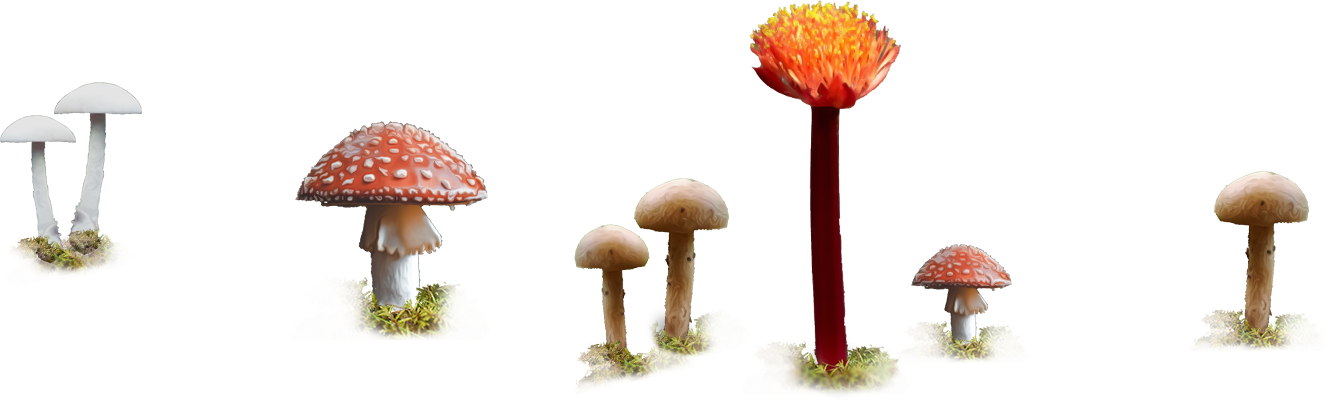
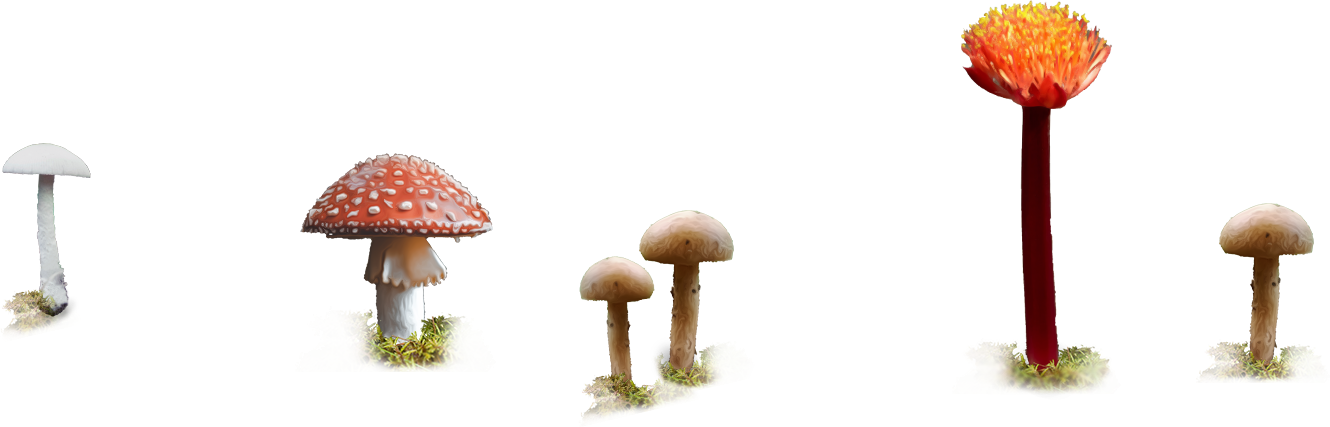
Update to graphql image

diff --git a/src/components/App/App.js b/src/components/App/App.js
@@ -1,6 +1,69 @@
 import React, { useEffect, useState } from "react"
+import { useStaticQuery, graphql } from "gatsby"
+import Img from "gatsby-image/withIEPolyfill"
 
 function App() {
+  const data = useStaticQuery(graphql`
+    query {
+      layer1: file(relativePath: { eq: "layer1.png" }) {
+        childImageSharp {
+          fluid(quality: 70, maxWidth: 1000) {
+            ...GatsbyImageSharpFluid_noBase64
+          }
+        }
+      }
+      layer2: file(relativePath: { eq: "layer2.png" }) {
+        childImageSharp {
+          fluid(quality: 70, maxWidth: 1000) {
+            ...GatsbyImageSharpFluid_noBase64
+          }
+        }
+      }
+      layer3: file(relativePath: { eq: "layer3.png" }) {
+        childImageSharp {
+          fluid(quality: 70, maxWidth: 1000) {
+            ...GatsbyImageSharpFluid_noBase64
+          }
+        }
+      }
+      layer4: file(relativePath: { eq: "layer4.png" }) {
+        childImageSharp {
+          fluid(quality: 70, maxWidth: 1000) {
+            ...GatsbyImageSharpFluid_noBase64
+          }
+        }
+      }
+      layer5: file(relativePath: { eq: "layer5.png" }) {
+        childImageSharp {
+          fluid(quality: 70, maxWidth: 1000) {
+            ...GatsbyImageSharpFluid_noBase64
+          }
+        }
+      }
+      layer6: file(relativePath: { eq: "layer6.png" }) {
+        childImageSharp {
+          fluid(quality: 70, maxWidth: 1000) {
+            ...GatsbyImageSharpFluid_noBase64
+          }
+        }
+      }
+      layer7: file(relativePath: { eq: "layer7.png" }) {
+        childImageSharp {
+          fluid(quality: 70, maxWidth: 1000) {
+            ...GatsbyImageSharpFluid_noBase64
+          }
+        }
+      }
+    }
+  `)
+  const layer1 = data.layer1.childImageSharp.fluid
+  const layer2 = data.layer2.childImageSharp.fluid
+  const layer3 = data.layer3.childImageSharp.fluid
+  const layer4 = data.layer4.childImageSharp.fluid
+  const layer5 = data.layer5.childImageSharp.fluid
+  const layer6 = data.layer6.childImageSharp.fluid
+  const layer7 = data.layer7.childImageSharp.fluid
+
   const centerX = window.innerWidth / 2
   const centerY = window.innerHeight / 2
   const [radiusX, setRadiusX] = useState(centerX)
@@ -54,8 +117,8 @@ function App() {
               button.style.display = "none"
               container.style.display = "block"
               window.addEventListener("deviceorientation", e => {
-                const gamma = Math.floor(e.gamma)
-                const beta = Math.floor(e.beta)
+                const gamma = e.gamma
+                const beta = e.beta
 
                 if (beta > -80 && beta < 80) {
                   layer1.style.transform = `translate3d(${-gamma * 1.4}px,${
@@ -98,7 +161,7 @@ function App() {
           layer2.style.transform = `translate3d(${-x * 0.18}px,${
             -y * 0.06
           }px,0px`
-          layer3.style.transform = `translate3d(${-x * 0.1}px,${
+          layer3.style.transform = `translate3d(${-x * 0.12}px,${
             -y * 0.05
           }px,0px`
           layer4.style.transform = `translate3d(${-x * 0.08}px,${
@@ -110,9 +173,9 @@ function App() {
           layer6.style.transform = `translate3d(${-x * 0.04}px,${
             -y * 0.02
           }px,0px`
-          layer7.style.transform = `translate3d(${-x * 0.03}px,${
-            -y * 0.01
-          }px,0px`
+          // layer7.style.transform = `translate3d(${-x * 0.03}px,${
+          //   -y * 0.01
+          // }px,0px`
         })
       }
     }
@@ -122,13 +185,27 @@ function App() {
     <>
       <button className="button">CLICK TO SHOW</button>
       <div className="parallax-container">
-        <div className="parallax-layer layer7"></div>
-        <div className="parallax-layer layer6"></div>
-        <div className="parallax-layer layer5"></div>
-        <div className="parallax-layer layer4"></div>
-        <div className="parallax-layer layer3"></div>
-        <div className="parallax-layer layer2"></div>
-        <div className="parallax-layer layer1"></div>
+        <div className="parallax-layer layer7">
+          <Img fluid={layer7} alt="" className="" />
+        </div>
+        <div className="parallax-layer layer6">
+          <Img fluid={layer6} alt="" />
+        </div>
+        <div className="parallax-layer layer5">
+          <Img fluid={layer5} alt="" />
+        </div>
+        <div className="parallax-layer layer4">
+          <Img fluid={layer4} alt="" />
+        </div>
+        <div className="parallax-layer layer3">
+          <Img fluid={layer3} alt="" />
+        </div>
+        <div className="parallax-layer layer2">
+          <Img fluid={layer2} alt="" />
+        </div>
+        <div className="parallax-layer layer1">
+          <Img fluid={layer1} alt="" />
+        </div>
       </div>
     </>
   )

diff --git a/src/assets/styles/App.scss b/src/assets/styles/App.scss
@@ -82,9 +82,6 @@ html {
     position: absolute;
   }
   .layer1 {
-    background-image: url(../images/layer1.png);
-    background-size: cover;
-    background-position: center;
     width: 150%;
     height: 46%;
     margin: auto;
@@ -93,41 +90,53 @@ html {
     @include medium {
       width: 140%;
       height: 50%;
-      left: -10%;
-      bottom: -23%;
+      left: -20%;
+      bottom: -20%;
+    }
+    // & > div {
+    //   background-image: url(../images/layer1.png);
+    //   background-size: cover;
+    //   background-position: center;
+    // }
+    .gatsby-image-wrapper {
+      height: 100%;
     }
   }
   .layer2 {
-    background-image: url(../images/layer2.png);
-    background-size: contain;
-    background-position: bottom;
     width: 80px;
     height: 100px;
-    left: 15%;
+    left: 12%;
     bottom: 4%;
     @include medium {
       width: 120px;
       height: 150px;
-      bottom: 10%;
+      bottom: 6%;
     }
+    // & > div {
+    //   background-image: url(../images/layer2.png);
+    //   background-size: contain;
+    //   background-position: bottom;
+    // }
   }
   .layer3 {
-    background-image: url(../images/layer3.png);
-    background-size: contain;
-    background-position: center;
-    width: 8%;
-    height: 15%;
-    right: 10%;
-    bottom: 2%;
+    // background-image: url(../images/layer3.png);
+    // background-size: contain;
+    // background-position: center;
+    bottom: 12%;
+    width: 20%;
+    height: 8%;
+    right: 15%;
     @include medium {
-      bottom: 10%;
+      width: 11%;
+      height: 15%;
+      right: 30%;
     }
   }
   .layer4 {
     //logo
-    background-image: url(../images/layer4.png);
-    background-size: contain;
-    background-position: center;
+    // background-image: url(../images/layer4.png);
+    // background-size: contain;
+    // background-position: center;
     width: 70%;
     height: 40%;
     margin: auto;
@@ -139,25 +148,26 @@ html {
     }
   }
   .layer5 {
-    background-image: url(../images/layer5.png);
-    background-position: center;
-    background-size: contain;
-    width: 170%;
+    // background-image: url(../images/layer5.png);
+    // background-position: center;
+    // background-size: contain;
+    width: 160%;
     height: 250px;
     margin: auto;
     left: -35%;
     right: 0;
     bottom: 12%;
     @include medium {
-      left: -22%;
-      width: 150%;
+      left: 0%;
+      width: 100%;
       height: 400px;
+      bottom: 15%;
     }
   }
   .layer6 {
-    background-image: url(../images/layer6.png);
-    background-size: cover;
-    background-position: top;
+    // background-image: url(../images/layer6.png);
+    // background-size: cover;
+    // background-position: top;
     width: 130%;
     height: 36%;
     margin: auto;
@@ -168,14 +178,20 @@ html {
       height: 45%;
       bottom: -3%;
     }
+    .gatsby-image-wrapper {
+      height: 100%;
+    }
   }
   .layer7 {
-    background-image: url(../images/layer7.png);
-    background-size: cover;
+    // background-image: url(../images/layer7.png);
+    // background-size: cover;
     width: 120%;
     height: 110%;
     height: calc(var(--vh, 1vh) * 110);
     left: -10%;
     top: -10%;
+    .gatsby-image-wrapper {
+      height: 100%;
+    }
   }
 }

diff --git a/README.md b/README.md
@@ -1,99 +1,1 @@
-<!-- AUTO-GENERATED-CONTENT:START (STARTER) -->
-<p align="center">
-  <a href="https://www.gatsbyjs.com">
-    <img alt="Gatsby" src="https://www.gatsbyjs.com/Gatsby-Monogram.svg" width="60" />
-  </a>
-</p>
-<h1 align="center">
-  Gatsby's default starter
-</h1>
-
-Kick off your project with this default boilerplate. This starter ships with the main Gatsby configuration files you might need to get up and running blazing fast with the blazing fast app generator for React.
-
-_Have another more specific idea? You may want to check out our vibrant collection of [official and community-created starters](https://www.gatsbyjs.com/docs/gatsby-starters/)._
-
-## 🚀 Quick start
-
-1.  **Create a Gatsby site.**
-
-    Use the Gatsby CLI to create a new site, specifying the default starter.
-
-    ```shell
-    # create a new Gatsby site using the default starter
-    gatsby new my-default-starter https://github.com/gatsbyjs/gatsby-starter-default
-    ```
-
-1.  **Start developing.**
-
-    Navigate into your new site’s directory and start it up.
-
-    ```shell
-    cd my-default-starter/
-    gatsby develop
-    ```
-
-1.  **Open the source code and start editing!**
-
-    Your site is now running at `http://localhost:8000`!
-
-    _Note: You'll also see a second link: _`http://localhost:8000/___graphql`_. This is a tool you can use to experiment with querying your data. Learn more about using this tool in the [Gatsby tutorial](https://www.gatsbyjs.com/tutorial/part-five/#introducing-graphiql)._
-
-    Open the `my-default-starter` directory in your code editor of choice and edit `src/pages/index.js`. Save your changes and the browser will update in real time!
-
-## 🧐 What's inside?
-
-A quick look at the top-level files and directories you'll see in a Gatsby project.
-
-    .
-    ├── node_modules
-    ├── src
-    ├── .gitignore
-    ├── .prettierrc
-    ├── gatsby-browser.js
-    ├── gatsby-config.js
-    ├── gatsby-node.js
-    ├── gatsby-ssr.js
-    ├── LICENSE
-    ├── package-lock.json
-    ├── package.json
-    └── README.md
-
-1.  **`/node_modules`**: This directory contains all of the modules of code that your project depends on (npm packages) are automatically installed.
-
-2.  **`/src`**: This directory will contain all of the code related to what you will see on the front-end of your site (what you see in the browser) such as your site header or a page template. `src` is a convention for “source code”.
-
-3.  **`.gitignore`**: This file tells git which files it should not track / not maintain a version history for.
-
-4.  **`.prettierrc`**: This is a configuration file for [Prettier](https://prettier.io/). Prettier is a tool to help keep the formatting of your code consistent.
-
-5.  **`gatsby-browser.js`**: This file is where Gatsby expects to find any usage of the [Gatsby browser APIs](https://www.gatsbyjs.com/docs/browser-apis/) (if any). These allow customization/extension of default Gatsby settings affecting the browser.
-
-6.  **`gatsby-config.js`**: This is the main configuration file for a Gatsby site. This is where you can specify information about your site (metadata) like the site title and description, which Gatsby plugins you’d like to include, etc. (Check out the [config docs](https://www.gatsbyjs.com/docs/gatsby-config/) for more detail).
-
-7.  **`gatsby-node.js`**: This file is where Gatsby expects to find any usage of the [Gatsby Node APIs](https://www.gatsbyjs.com/docs/node-apis/) (if any). These allow customization/extension of default Gatsby settings affecting pieces of the site build process.
-
-8.  **`gatsby-ssr.js`**: This file is where Gatsby expects to find any usage of the [Gatsby server-side rendering APIs](https://www.gatsbyjs.com/docs/ssr-apis/) (if any). These allow customization of default Gatsby settings affecting server-side rendering.
-
-9.  **`LICENSE`**: This Gatsby starter is licensed under the 0BSD license. This means that you can see this file as a placeholder and replace it with your own license.
-
-10. **`package-lock.json`** (See `package.json` below, first). This is an automatically generated file based on the exact versions of your npm dependencies that were installed for your project. **(You won’t change this file directly).**
-
-11. **`package.json`**: A manifest file for Node.js projects, which includes things like metadata (the project’s name, author, etc). This manifest is how npm knows which packages to install for your project.
-
-12. **`README.md`**: A text file containing useful reference information about your project.
-
-## 🎓 Learning Gatsby
-
-Looking for more guidance? Full documentation for Gatsby lives [on the website](https://www.gatsbyjs.com/). Here are some places to start:
-
-- **For most developers, we recommend starting with our [in-depth tutorial for creating a site with Gatsby](https://www.gatsbyjs.com/tutorial/).** It starts with zero assumptions about your level of ability and walks through every step of the process.
-
-- **To dive straight into code samples, head [to our documentation](https://www.gatsbyjs.com/docs/).** In particular, check out the _Guides_, _API Reference_, and _Advanced Tutorials_ sections in the sidebar.
-
-## 💫 Deploy
-
-[![Deploy to Netlify](https://www.netlify.com/img/deploy/button.svg)](https://app.netlify.com/start/deploy?repository=https://github.com/gatsbyjs/gatsby-starter-default)
-
-[![Deploy with Vercel](https://vercel.com/button)](https://vercel.com/import/project?template=https://github.com/gatsbyjs/gatsby-starter-default)
-
-<!-- AUTO-GENERATED-CONTENT:END -->
+### Mushroom Parallax
